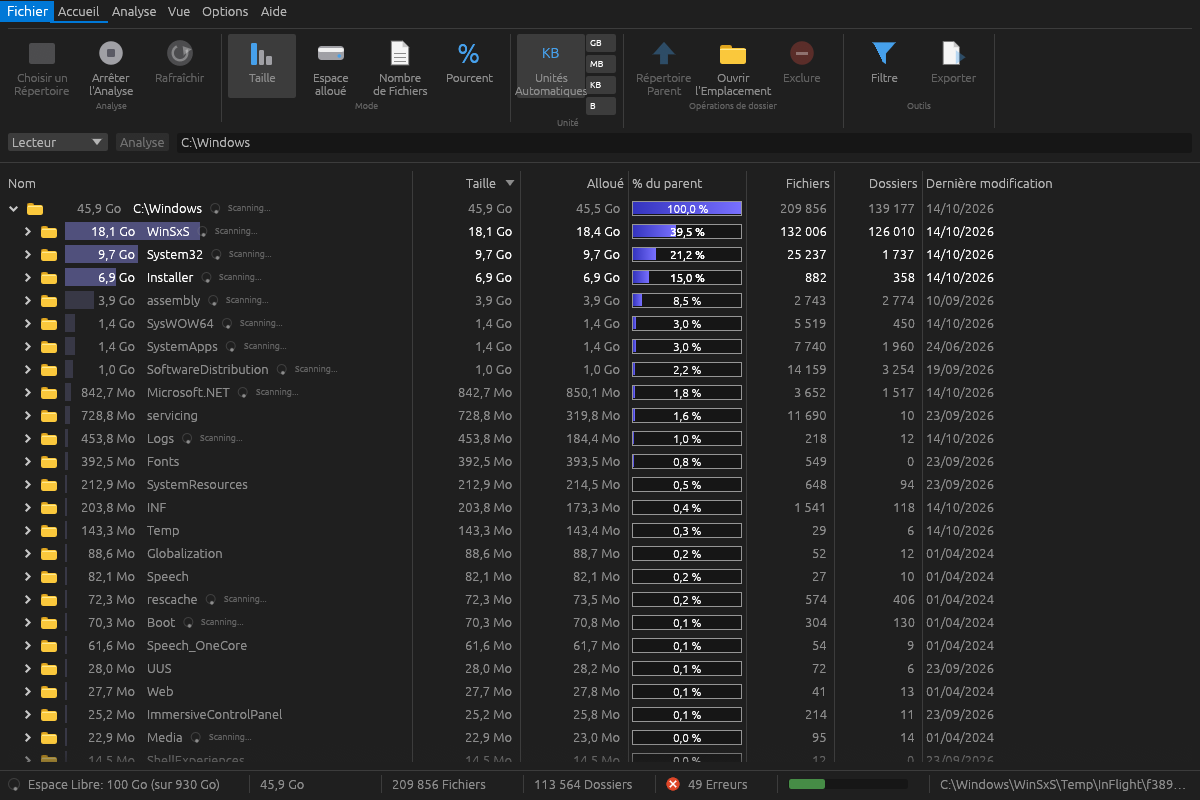
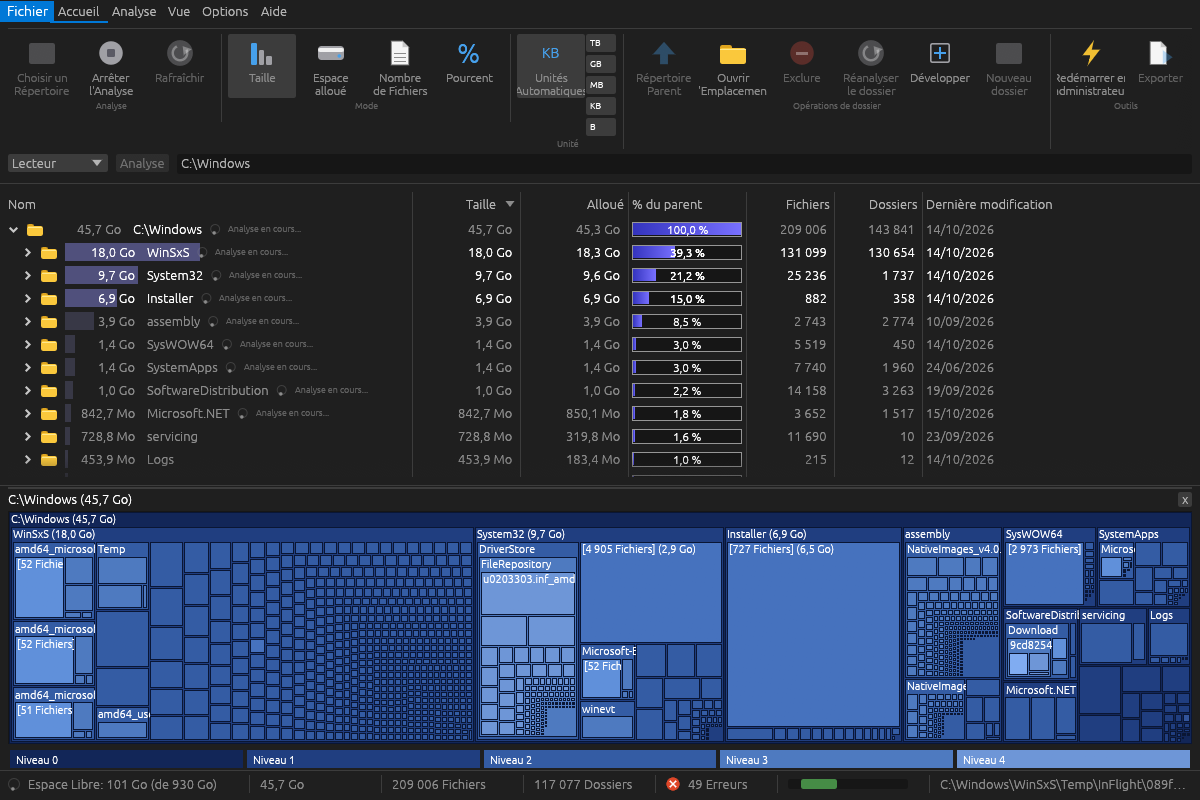
feat(treesize-clone): always-admin option, excluded count, scrollable ribbon, review fixes, docs (#25)
* feat(treesize-clone): Always start as administrator option

* feat(treesize-clone): excluded count in the status bar, scrollable ribbon, --tab screenshots, refreshed docs and screenshots

* fix(treesize-clone): review findings - hide-empty on live trees, find bar focus theft, stale hits, per-node allocation

---------

diff --git a/examples/treesize-clone/src/ui/app.rs b/examples/treesize-clone/src/ui/app.rs
@@ -98,7 +98,9 @@ fn build_sib(tree: &Tree, id: NodeId, filtering: bool, sort: SortCol, desc: bool
     let mut items: Vec<(RowKind, Key)> = Vec::new();
     for &c in &tree.get(id).children {
         let n = tree.get(c);
-        if hide_empty && n.is_dir && n.children.is_empty() && !n.scanning {
+        // Aggregated counts, not `children`: live snapshots hold directories only, so a folder
+        // full of files has no child nodes there.
+        if hide_empty && n.is_dir && n.files == 0 && n.dirs == 0 && !n.scanning {
             continue;
         }
         if filtering || n.is_dir {
@@ -165,6 +167,12 @@ fn access_denied_count(errors: &[scan::ScanError]) -> usize {
 }
 
 /// Columns of the tree table, left to right: the Options flags and the hidden set combined.
+/// Relaunch elevated only when asked for, on Windows, outside screenshot mode and not already elevated
+/// (so the elevated copy never restarts itself again).
+fn wants_elevation(always_admin: bool, shot_mode: bool, elevated: bool) -> bool {
+    always_admin && cfg!(windows) && !shot_mode && !elevated
+}
+
 fn visible_columns(show_allocated: bool, details: bool, hidden: &[SortCol]) -> Vec<SortCol> {
     let mut cols = vec![SortCol::Name, SortCol::Size];
     if show_allocated {
@@ -185,11 +193,17 @@ fn find_matches(tree: &Tree, needle: &str) -> Vec<NodeId> {
     if needle.is_empty() || tree.nodes.is_empty() {
         return Vec::new();
     }
+    // ASCII needles (the common case) are matched without allocating a lowercase copy per node.
+    let ascii = needle.is_ascii().then_some(needle.as_bytes());
+    let matches = |name: &str| match ascii {
+        Some(nb) => name.as_bytes().windows(nb.len()).any(|w| w.eq_ignore_ascii_case(nb)),
+        None => name.to_lowercase().contains(&needle),
+    };
     let mut out = Vec::new();
     let mut stack: Vec<NodeId> = tree.get(Tree::ROOT).children.iter().rev().copied().collect();
     while let Some(id) = stack.pop() {
         let n = tree.get(id);
-        if n.name.to_lowercase().contains(&needle) {
+        if matches(&n.name) {
             out.push(id);
             if out.len() >= 5000 {
                 break;
@@ -328,6 +342,8 @@ pub struct App {
     admin_hint: Option<usize>,
     scroll_to: Option<usize>,
     find_open: bool,
+    find_focus: bool,
+    find_stale: bool,
     find_text: String,
     find_hits: Vec<NodeId>,
     find_pos: usize,
@@ -375,6 +391,8 @@ pub struct RunOptions {
     pub live: bool,
     pub view: Option<ViewKind>,
     pub lang: Option<String>,
+    /// Ribbon tab to show (0 = File ... 5 = Help), for screenshots.
+    pub tab: Option<usize>,
 }
 
 pub fn parse_view(name: &str) -> Option<ViewKind> {
@@ -409,6 +427,7 @@ pub fn parse_args(args: &[String]) -> Result<RunOptions, String> {
                 o.view = Some(parse_view(v).ok_or_else(|| format!("unknown view '{v}'"))?);
             }
             "--lang" => o.lang = Some(it.next().ok_or("--lang needs a code")?.clone()),
+            "--tab" => o.tab = Some(it.next().ok_or("--tab needs a number 0-5")?.parse().map_err(|_| "--tab needs a number 0-5")?),
             s if s.starts_with('-') => return Err(format!("unknown option '{s}'")),
             s => o.start = Some(PathBuf::from(s)),
         }
@@ -491,6 +510,12 @@ pub fn run(opts: RunOptions) -> eframe::Result<()> {
     } else {
         settings::default_path().as_deref().map(settings::load_from).unwrap_or_default()
     };
+    if wants_elevation(st.always_admin, shot_mode, scan::mft::is_elevated()) {
+        let target = opts.start.clone().or_else(|| (!st.last_path.is_empty()).then(|| PathBuf::from(&st.last_path))).unwrap_or_default();
+        if restart_as_admin(&target) {
+            return Ok(()); // the elevated copy takes over
+        }
+    }
     let geom = st.window.and_then(|g| sanitize_geom(g, (spec.min_w, spec.min_h))).filter(|_| !shot_mode);
     // Default window: 1200x800, centred; a saved geometry wins.
     let (w, h) = match geom {
@@ -591,7 +616,7 @@ impl App {
             col_live: Vec::new(),
             col_changed: Instant::now(),
             files_expanded: HashSet::new(),
-            ribbon_tab: 1,
+            ribbon_tab: opts.tab.unwrap_or(1).min(5),
             disk: None,
             settings: st,
             settings_path,
@@ -633,6 +658,8 @@ impl App {
             admin_hint: None,
             scroll_to: None,
             find_open: false,
+            find_focus: false,
+            find_stale: false,
             find_text: String::new(),
             find_hits: Vec::new(),
             find_pos: 0,
@@ -924,6 +951,7 @@ impl App {
         self.oldest_cache = None;
         self.cleanup_cache = None;
         self.age_cache = None;
+        self.find_stale = true;
     }
 
     fn rebuild_rows(&mut self) {
@@ -1199,7 +1227,8 @@ impl App {
             }
             Cmd::Find => {
                 self.find_open = !self.find_open;
-                self.find_hits.clear();
+                self.find_focus = self.find_open;
+                self.find_stale = true;
             }
             Cmd::MapRight(r) => {
                 self.settings.map_right = r;
@@ -1386,6 +1415,12 @@ impl App {
                 cell(ui, 130.0, |ui| {
                     ui.add(egui::Label::new(format!("{} {}", fmt::group_int(files), tr("Files"))).truncate());
                 });
+                if !self.excludes.is_empty() {
+                    let n = self.excludes.len();
+                    cell(ui, 90.0, |ui| {
+                        ui.add(egui::Label::new(format!("{} {}", n, tr("Excluded"))).truncate());
+                    });
+                }
                 cell(ui, 110.0, |ui| {
                     if !l.error_list.is_empty() {
                         let (r, _) = ui.allocate_exact_size(egui::vec2(14.0, 14.0), Sense::hover());
@@ -1798,7 +1833,7 @@ impl App {
         ui.horizontal(|ui| {
             ui.label(tr("Find in tree"));
             let r = ui.add(egui::TextEdit::singleline(&mut self.find_text).desired_width(220.0).hint_text(tr("Name")));
-            if self.find_hits.is_empty() && self.find_text.is_empty() {
+            if std::mem::take(&mut self.find_focus) {
                 r.request_focus();
             }
             changed = r.changed();
@@ -1823,7 +1858,14 @@ impl App {
             self.find_open = false;
             return;
         }
+        if self.find_stale && !changed {
+            // The tree changed under the hits (scan, delete, rename): recompute and keep the position.
+            self.find_stale = false;
+            self.find_hits = self.loaded.as_ref().map(|l| find_matches(&l.tree, &self.find_text)).unwrap_or_default();
+            self.find_pos = self.find_pos.min(self.find_hits.len().saturating_sub(1));
+        }
         if changed {
+            self.find_stale = false;
             self.find_hits = self.loaded.as_ref().map(|l| find_matches(&l.tree, &self.find_text)).unwrap_or_default();
             self.find_pos = 0;
             step = if self.find_hits.is_empty() { 0 } else { 2 }; // 2 = jump to the first hit
@@ -2347,8 +2389,6 @@ impl App {
         }
     }
 
-    /// Proportional map docked under the tree: shows the selected folder (the scan root when
-    /// nothing, or a file, is selected); clicking a tile selects it in the tree.
     /// Style of the docked / full-size map from the settings; free space only for a drive root.
     fn map_style(&self, root: NodeId) -> views::MapStyle {
         let s = &self.settings;
@@ -2363,6 +2403,8 @@ impl App {
         }
     }
 
+    /// Proportional map docked under (or beside) the tree: shows the selected folder (the scan root
+    /// when nothing, or a file, is selected); clicking a tile selects it in the tree.
     fn map_panel(&mut self, ui: &mut egui::Ui) {
         let Some(l) = &self.loaded else { return };
         let tree = &l.tree;
@@ -2389,9 +2431,7 @@ impl App {
         }
         let line = if hresp.hovered() { ui.visuals().selection.bg_fill } else { ui.visuals().widgets.noninteractive.bg_stroke.color };
         ui.painter().rect_filled(if right { hrect.shrink2(egui::vec2(1.5, 0.0)) } else { hrect.shrink2(egui::vec2(0.0, 1.5)) }, 0.0, line);
-        if right {
-            ui.add_space(0.0);
-        } else {
+        if !right {
             ui.add_space(5.0);
         }
         let margin = egui::Margin { left: if right { 7 } else { 0 }, ..Default::default() };
@@ -2957,12 +2997,45 @@ mod tests {
     }
 
     #[test]
+    fn elevation_is_requested_once() {
+        assert!(wants_elevation(true, false, false) == cfg!(windows));
+        assert!(!wants_elevation(true, false, true), "already elevated: no restart loop");
+        assert!(!wants_elevation(false, false, false));
+        assert!(!wants_elevation(true, true, false), "never in screenshot mode");
+    }
+
+    #[test]
     fn column_visibility_combines_flags_and_hidden_set() {
         use SortCol::*;
         assert_eq!(visible_columns(true, true, &[]), [Name, Size, Alloc, Percent, Files, Folders, Modified]);
         assert_eq!(visible_columns(false, false, &[]), [Name, Size, Percent]);
         assert_eq!(visible_columns(true, true, &[Folders, Size]), [Name, Alloc, Percent, Files, Modified]);
         assert_eq!(visible_columns(true, true, &[Name]), [Name, Size, Alloc, Percent, Files, Folders, Modified], "Name cannot be hidden");
+    }
+
+    #[test]
+    fn hide_empty_keeps_live_folders_that_only_hold_files() {
+        // Live snapshots hold directories only: a folder full of files has no child nodes but non-zero counts.
+        let mut t = Tree::placeholder("root");
+        let proto = t.nodes[0].clone();
+        let mut add = |name: &str, files: u64, size: u64| {
+            let mut n = proto.clone();
+            n.name = name.into();
+            n.parent = 0;
+            n.files = files;
+            n.size = size;
+            n.scanning = false;
+            t.nodes.push(n);
+            let id = (t.nodes.len() - 1) as NodeId;
+            t.nodes[0].children.push(id);
+        };
+        add("has_files", 3, 300);
+        add("truly_empty", 0, 0);
+        let names = |hide: bool| -> Vec<String> {
+            build_sib(&t, 0, false, SortCol::Name, false, hide).order.iter().filter_map(|k| if let RowKind::Node(i) = k { Some(t.get(*i).name.clone()) } else { None }).collect()
+        };
+        assert_eq!(names(true), ["has_files"]);
+        assert_eq!(names(false), ["has_files", "truly_empty"]);
     }
 
     #[test]

diff --git a/examples/treesize-clone/src/ui/app/ribbon.rs b/examples/treesize-clone/src/ui/app/ribbon.rs
@@ -138,6 +138,8 @@ impl App {
         ui.add_space(2.0);
         ui.separator();
         let scanning = self.handle.is_some();
+        // Wide tabs scroll sideways instead of being cut off at the window edge.
+        egui::ScrollArea::horizontal().id_salt("ribbon_scroll").auto_shrink([false, true]).show(ui, |ui| {
         ui.horizontal(|ui| {
             ui.set_min_height(88.0);
             ui.spacing_mut().item_spacing.x = 4.0;
@@ -188,10 +190,6 @@ impl App {
                         self.big(ui, &mut out, Cmd::NewFolder, Icon::Folder, "New folder");
                     });
                     group(ui, &cap("GrpToolsTitleAction", "Tools"), |ui| {
-                        self.big(ui, &mut out, Cmd::Filter, Icon::Filter, "Filter");
-                        self.big(ui, &mut out, Cmd::ClearFilter, Icon::Exclude, "Clear filter");
-                        self.big(ui, &mut out, Cmd::ToggleHideEmpty, Icon::Folder, "Hide empty folders");
-                        self.big(ui, &mut out, Cmd::Find, Icon::Types, "Find in tree");
                         self.big(ui, &mut out, Cmd::RestartAdmin, Icon::Bolt, "Restart as Administrator");
                         let resp = big_button(ui, Icon::Export, &tr("Export"), self.loaded.is_some() && !scanning, false);
                         egui::Popup::menu(&resp).show(|ui| {
@@ -220,10 +218,16 @@ impl App {
                             self.big(ui, &mut out, Cmd::SetView(v), ic, l);
                         }
                     });
+                    group(ui, &tr("Filter"), |ui| {
+                        self.big(ui, &mut out, Cmd::Filter, Icon::Filter, "Filter");
+                        self.big(ui, &mut out, Cmd::ClearFilter, Icon::Exclude, "Clear filter");
+                        self.big(ui, &mut out, Cmd::ToggleHideEmpty, Icon::Folder, "Hide empty folders");
+                        self.big(ui, &mut out, Cmd::Find, Icon::Types, "Find in tree");
+                    });
                     group(ui, &tr("History"), |ui| {
-                        self.big(ui, &mut out, Cmd::SetView(ViewKind::Compare), Icon::Oldest, "Changes since last scan");
-                        self.big(ui, &mut out, Cmd::SnapshotCompare, Icon::Open, "Compare with snapshot...");
-                        self.big(ui, &mut out, Cmd::SnapshotSave, Icon::Export, "Save snapshot...");
+                        self.big(ui, &mut out, Cmd::SetView(ViewKind::Compare), Icon::Oldest, "Changes");
+                        self.big(ui, &mut out, Cmd::SnapshotCompare, Icon::Open, "Compare...");
+                        self.big(ui, &mut out, Cmd::SnapshotSave, Icon::Export, "Snapshot...");
                     });
                     group(ui, &tr("Scan"), |ui| {
                         if big_button(ui, Icon::Bolt, &tr("Fast NTFS scan (admin)"), !scanning, self.fast_ntfs).clicked() {
@@ -288,6 +292,7 @@ impl App {
                     self.big(ui, &mut out, Cmd::About, Icon::About, "About");
                 }),
             }
+        });
         });
         out
     }

diff --git a/examples/treesize-clone/src/settings.rs b/examples/treesize-clone/src/settings.rs
@@ -130,6 +130,8 @@ pub struct Settings {
     pub decimals: u8,
     /// Hide folders that hold nothing at all.
     pub hide_empty: bool,
+    /// Relaunch elevated at start-up (UAC prompt) so protected folders can be read.
+    pub always_admin: bool,
     /// Proportional map docked under the tree (like the original).
     pub show_map: bool,
     /// Height of the docked map panel in points (0 = automatic).
@@ -169,6 +171,7 @@ impl Default for Settings {
             hidden_cols: Vec::new(),
             decimals: 1,
             hide_empty: false,
+            always_admin: false,
             show_map: true,
             map_height: 0.0,
             map_right: false,
@@ -252,6 +255,7 @@ mod tests {
             hidden_cols: vec![SortKey::Folders],
             decimals: 2,
             hide_empty: true,
+            always_admin: true,
             show_map: false,
             map_height: 0.0,
             map_right: true,

diff --git a/examples/treesize-clone/src/main.rs b/examples/treesize-clone/src/main.rs
@@ -45,7 +45,7 @@ const USAGE: &str = "TreeSize Clone in Rust (egui)
 Usage: treesize-clone [PATH]                launch the GUI (PATH is scanned at startup)
        treesize-clone --cli [PATH] [-d N] [--export FILE.csv|json|html] [--changes] [--cleanup]
                                             headless scan: print the tree, export it, show what changed since the last scan, list reclaimable folders
-       treesize-clone --screenshot FILE.png [--view tree|treemap|chart|types|largest|oldest|duplicates]
+       treesize-clone --screenshot FILE.png [--view tree|treemap|chart|types|largest|oldest|duplicates|compare|cleanup|age] [--tab N]
                       [--lang CODE] [PATH]  developer flag: scan PATH, render one frame, save a PNG, exit";
 
 fn main() {

diff --git a/examples/treesize-clone/src/i18n_fr.rs b/examples/treesize-clone/src/i18n_fr.rs
@@ -122,6 +122,11 @@ static FR: &[(&str, &str)] = &[
     ("Find in tree", "Chercher dans l'arborescence"),
     ("Hide empty folders", "Masquer les dossiers vides"),
     ("No match", "Aucun résultat"),
+    ("Always start as administrator", "Toujours démarrer en tant qu'administrateur"),
+    ("Excluded", "Exclus"),
+    ("Changes", "Changements"),
+    ("Compare...", "Comparer..."),
+    ("Snapshot...", "Instantané..."),
     ("changed folders", "dossiers modifiés"),
     ("deleted", "supprimé"),
     ("folders", "dossiers"),

diff --git a/examples/treesize-clone/src/ui/app/dialogs.rs b/examples/treesize-clone/src/ui/app/dialogs.rs
@@ -95,6 +95,7 @@ impl App {
 
                 ui.label(tr("Scan"));
                 ui.checkbox(&mut self.fast_ntfs, tr("Fast NTFS scan (admin)"));
+                ui.checkbox(&mut self.settings.always_admin, tr("Always start as administrator"));
                 ui.end_row();
             });
             ui.separator();

diff --git a/examples/treesize-clone/README.md b/examples/treesize-clone/README.md
@@ -65,7 +65,7 @@ cargo test
 - **Localised formatting** (`src/fmt.rs`): French uses Octets/Ko/Mo/Go/To with decimal comma, no-break-space grouping and dd/mm/yyyy dates; English uses Bytes/KB/MB/GB; other locales get the Windows short-date pattern (`GetLocaleInfoEx`, converted to a chrono format). One decimal like the original. Status bar: "Free Space: 101 GB (of 930 GB)", file count, errors link with a red badge, "4 096 Bytes per Cluster (NTFS)" (`GetDiskFreeSpaceExW`, `GetDiskFreeSpaceW`, `GetVolumeInformationW`).
 - **Theme**: `auto` (default) follows the Windows app theme (`AppsUseLightTheme` read with `RegGetValueW`), plus `dark` and `light` in Options. The dark theme uses #1F1F1F panels, #3C3C3C selection and blue accents.
 - **Ribbon** (`src/ui/app/ribbon.rs`): compact tabbed ribbon (File, Home, Scan, View, Options, Help) with big icon buttons and group captions. Tab, group and command names come from the actions of `MAIN_RIBBON` / the DFM catalogue (`TabHomeTitleAction`, `GrpModeTitleAction`, `GrpUnitTitleAction`, `GrpFolderOperationsAction`, `GrpToolsTitleAction`, ...; the UIRibbon markup itself is a binary format whose command strings were read, its layout was not decoded). Icons are vector glyphs drawn with the egui painter; the extracted bitmaps do not contain the ribbon artwork. The File tab holds the full menu bar, so every previous command stays reachable.
-- **Developer screenshots**: `treesize-clone --screenshot out.png [--view tree|treemap|chart|types|largest|oldest|duplicates] [--lang CODE] [PATH]` scans PATH, renders, saves a PNG through `ViewportCommand::Screenshot` and exits (settings are neither read nor written, English unless `--lang`). Results are in `docs/screenshots/` (dark theme, `C:\Windows`: `tree.png` English final, `tree_fr.png` French final, `live_scan.png` French mid-scan, `treemap.png` treemap).
+- **Developer screenshots**: `treesize-clone --screenshot out.png [--view tree|treemap|chart|types|largest|oldest|duplicates|compare|cleanup|age] [--tab N] [--lang CODE] [PATH]` scans PATH, renders, saves a PNG through `ViewportCommand::Screenshot` and exits (settings are neither read nor written, English unless `--lang`). Results are in `docs/screenshots/` (dark theme, `C:\Windows`: `tree.png` English final, `tree_fr.png` French final, `live_scan.png` French mid-scan, `treemap.png` treemap).
 
 ## Done (Part D: beyond the original)
 
@@ -81,6 +81,13 @@ cargo test
 - **CLI**: `--cli PATH [-d N] [--export FILE.csv|json|html] [--changes] [--cleanup]` (export, diff against the previous scan, reclaimable folders) for scripted reports.
 - **French wording** for the labels invented by the clone (`src/i18n_fr.rs`, used only when the French catalogue lacks the text).
 - **CI**: the Rust crate is now built, linted (`clippy -D warnings`, Windows) and tested on Linux and Windows.
+- **Docked proportional map** (default on, like the latest TreeSize Free): under the tree or on the right, follows the selected folder, draggable size, close button; clicking a tile selects it in the tree. Options like the original "Options de graphique": level of detail (1-4 folder levels, legend shows 0-4), show unique files (individual file tiles, 120 largest per folder + a block), hierarchy captions, legend, labels, free-space tile when the map shows a drive root. Layout is pure and tested (`treemap::nested_with`).
+- **View/Analyse parity** (checked tab by tab against the real app): TB unit, configurable decimals (0-3), Configure columns menu, Find in tree (Ctrl+F, next/previous, selects and reveals), Clear filter, Hide empty folders, Expanded / Collapse branch.
+- **Start page** with one card per drive (file system, usage bar, free/total, computed off-thread) and recent folders; paths pasted with quotes or `%VARS%` are cleaned; a bare `C:` means the drive root; UNC paths work in GUI and CLI.
+- **Access denied**: after a scan with refused folders a banner offers Restart as Administrator (the original asks the same question); "Always start as administrator" in Options.
+- **Right-click menus** on the tree, the Top 100 / Oldest / Clean-up lists and treemap tiles (Open, Show in tree, Copy path, Windows properties, Delete to the Recycle Bin with confirmation); delete duplicates from the finder.
+- **Change history**: baseline picker (any earlier scan) and a size-over-time chart in the Changes view; scan index in `%APPDATA%/treesize-clone/snapshots`.
+- Developer flag `--tab N` (0 File ... 5 Help) selects the ribbon tab for screenshots; `docs/screenshots/ribbon_view.png` shows the View tab.
 - Measured on this machine: `C:\` (3.75 M files, 655 k folders) scans in about 24 s (peak working set about 1.25 GB); long paths beyond MAX_PATH are scanned.
 
 ## Derived from the extracted assets vs written from scratch
